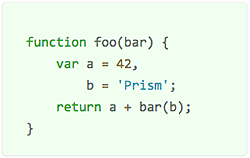
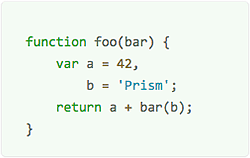
slightly darker yellow, less saturated base07

diff --git a/themes/prism-base16-atelierseaside.light.css b/themes/prism-base16-atelierseaside.light.css
@@ -24,7 +24,7 @@ pre[class*="language-"] {
   -moz-hyphens: none;
   -ms-hyphens: none;
   hyphens: none;
-  background: #f0fff0;
+  background: #f4fbf4;
   color: #5e6e5e;
 }
 
@@ -75,7 +75,7 @@ pre[class*="language-"] {
 }
 
 .token.property {
-  color: #c3c322;
+  color: #98981b;
 }
 
 .token.tag {
